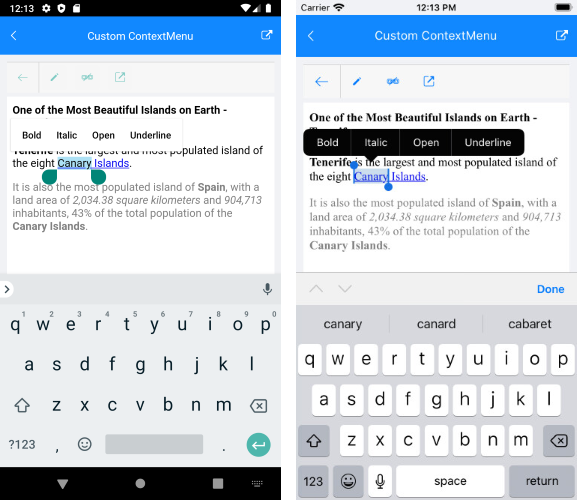
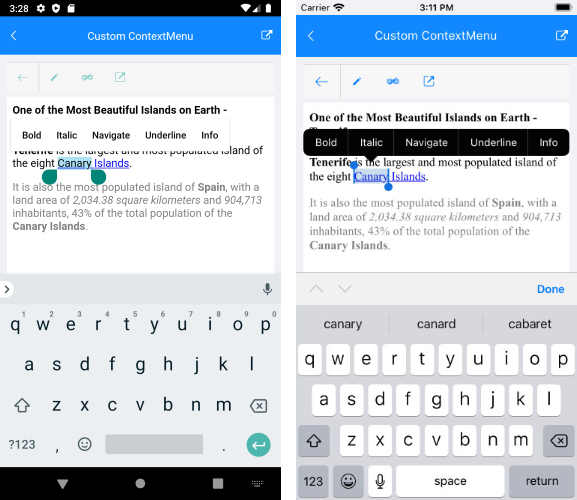
RTE Docs updates

diff --git a/controls/richtexteditor/richtexteditor-context-menu.md b/controls/richtexteditor/richtexteditor-context-menu.md
@@ -8,31 +8,31 @@ slug: richtexteditor-context-menu
 
 # Context Menu
 
-With R1 2021 release RichTextEditor comes with a built-in context menu support which shows common operations such as Copy and Paste for sharing data between the apps or within the app. The context menu is triggered on tap and hold gesture (right-button click on UWP) over the editor content. It is also displayed as soon as the user performs text selection.
+With R1 2021 release RichTextEditor comes with a built-in context menu support which shows common operations such as Copy and Paste for sharing data between the apps or within the app. The context menu is triggered on tap and hold gesture (right-button click on UWP) over the editor content. On Android and iOS it is also displayed as soon as the user performs selection.
 
 The default context menu shows the following options:
 
-* **Cut** - cuts the selected text and saves it in the system clipboard;
-* **Copy** - copies the selected text and saves it in the clipboard;
-* **Paste** - pastes the text from the clipboard into the editor;
-* **Paste as Plain Text** - pastes the text from the clipboard stripping any additional formatting;
-* **Select All** - selects all the current text in the editor;
+* **Cut** - cuts the selected content and saves it in the system clipboard;
+* **Copy** - copies the selected content and saves it in the clipboard;
+* **Paste** - pastes the content from the clipboard into the editor;
+* **Paste as Plain Text** - pastes the content from the clipboard stripping any additional formatting;
+* **Select All** - selects all of the content in the editor;
 
-What options are available in the context menu depends on the current text selection or caret position in the editor.
+What options are available in the context menu depends on the current content selection or caret position in the editor.
 
 Check below a few examples of the RichTextEditor Context Menu.
 
-* in case of text selection, all the default options are available:
+* in case of content selection, all the default options are available:
 
 ![](images/richtexteditor-contextmenu-1.png)
 
-* in case the context menu is shown over the current caret position (through tap and hold gesture on empty space inside the editor), only Paste and SelectAll options are available:
+* in case the context menu is shown over the current caret position (through tap and hold gesture on empty space inside the editor), only **Paste**, **Paste as Plan Text** and **Select All** options are available:
 
 ![](images/richtexteditor-contextmenu-2.png)
 
 ## Custom Context Menu
 
-You can easily modify the RichTextEditor default Context Menu and add or remove some of the provided options. Just need to set <code>AutoGenerateContextMenu</code> property of the RichTextEditor to *False* and manually define the ContextMenuItems. You can choose from the predefined ContextMenuItems or create a CustomContextMenuItem instance and define its **Title** and **Command** (the Command can be bound to any of the RadRichTextEditor's [Commands]({%slug richtexteditor-commands%}) or to a custom command). 
+You can easily modify the RichTextEditor default Context Menu and add or remove some of the provided options. Just need to set <code>AutoGenerateContextMenu</code> property of the RichTextEditor to *False* and manually define the ContextMenuItems. You can choose from the predefined ContextMenuItems or create a <code>CustomContextMenuItem</code> instance and define its **Title** and **Command** (the Command can be bound to any of the RadRichTextEditor's [Commands]({%slug richtexteditor-commands%}) or to a custom command). 
 
 Here is a list of the predefined ContextMenuItems:
 
@@ -45,7 +45,7 @@ Here is a list of the predefined ContextMenuItems:
 * PastePlainTextContextMenuItem
 * SelectAllContextMenuItem
 
-Following is an example how the RichTextEditor Context Menu can be customized by using some of the predefined items as well as adding a <code>CustomContextMenuItem</code> instance:
+Following is an example how the RichTextEditor Context Menu can be customized by using some of the predefined items as well as adding two <code>CustomContextMenuItem</code> instances - the first wired to the RichTextEditor's ToggleUnderlineCommand and the second wired to a custom command imlemented in the ViewModel:
 
 <snippet id='richtexteditor-contextmenu-xaml' />
 
@@ -54,6 +54,14 @@ Add the required namespace:
 ```XAML
 xmlns:telerikRichTextEditor="clr-namespace:Telerik.XamarinForms.RichTextEditor;assembly=Telerik.XamarinForms.RichTextEditor"
 ```
+
+Add the ViewModel class with the CustomInfoCommand:
+
+<snippet id='richtexteditor-contextmenu-vm' />
+
+And set it as a BindingContext of the page:
+
+<snippet id='richtexteditor-contextmenu-setvm' />
 
 Here is the result:
 

diff --git a/controls/richtexteditor/richtexteditor-key-features.md b/controls/richtexteditor/richtexteditor-key-features.md
@@ -68,12 +68,13 @@ In addition, RichTextEditor provides flexible API to apply formatting at the cur
 
 ## Text Selection
 
-RichTextEditor supports text selection functionality - the end user can initiate a selection action through the tap and hold gesture over the text. The selected text is marked with a different background color and two drag handles are available to the user to make it easier to modify the current selection. In addition, as soon as the selection is made, RichTextEditor displays a customizable ContextMenu with a few default commands.
+RichTextEditor supports text selection functionality - the end user can initiate a selection action through the tap and hold gesture over the text. The selected text is marked with a different background color and two drag handles are available to the user to make it easier to modify the current selection. 
 
-You can take advantage of the following methods related to text selection:
+In addition, as soon as the selection is made on Android and iOS, RichTextEditor displays a customizable ContextMenu with a few default commands. For more details on this go to [Context Menu]({%slug richtexteditor-context-menu%}) topic.
 
+You can take advantage of the following API related to text selection:
 
-* GetSelectionAsync() - returns asynchronously a [RichTextSelection](/devtools/xamarin/api/telerik.xamarinforms.richtexteditor.richtextselection) object which defines the current text selection inside the editor (*null* if there is no text selection). The <code>RichTextSelection</code> object contains the *Text* itself as well as the *Start* and *End* position of the text characters;
+* **GetSelectionAsync** method - returns asynchronously a [RichTextSelection](/devtools/xamarin/api/telerik.xamarinforms.richtexteditor.richtextselection) object which defines the current text selection inside the editor (*null* if there is no text selection). The <code>RichTextSelection</code> object contains the *Text* itself as well as the *Start* and *End* position of the text characters;
 
 ## Hyperlink Support
 
@@ -98,28 +99,18 @@ You can override the default behavior by handling the RichTextEditor's **OpenHyp
 	* The <code>Sender</code> which is the RichTextEditor control;
 	* OpenHyperlinkErrorEventArgs provides the following properties:
 		* <code>Error</code> - of type System.Exception, can be used to get the exact error message;
-		* <code>Url</code> - the url of the hyperlink;
+		* <code>Url</code> - of type string, defining the url of the hyperlink;
 		* <code>Handled</code> - boolean property indicating whether the event is handled.
 
 Subscribe to the event, set <code>Handled</code> property of the event args to *True* to prevent the default message and add custom implementation. 
 
 Here is a quick example on the OpenHyperlinkError event usage:
 
-```XAML
-<telerikRichTextEditor:RadRichTextEditor x:Name="richTextEditor" 
-										 OpenHyperlinkError="RichTextEditor_OpenHyperlinkError"
-										 Grid.Row="1" />
-```
+<snippet id='richtexteditor-hyperlinkerrorhandling-xaml' />
 
 And the event handler which shows a custom message:
 
-```C#
-private void RichTextEditor_OpenHyperlinkError(object sender, OpenHyperlinkErrorEventArgs e)
-{
-	e.Handled = true;
-	Application.Current.MainPage.DisplayAlert(string.Format("Error opening {0}", e.Url), e.Error.Message, "Ok");
-}
-```
+<snippet id='richtexteditor-hyperlinkerrorhandling-code' />
 
 Here is the custom message:
 
@@ -151,3 +142,4 @@ The sample Read-Only State demo can be found in our [SDK Browser Application](ht
 
 - [RichTextEditor Toolbar]({%slug richtexteditor-toolbar%})
 - [Commands]({%slug richtexteditor-commands%})
+- [Context Menu]({%slug richtexteditor-context-menu%})

diff --git a/controls/richtexteditor/richtexteditor-commands.md b/controls/richtexteditor/richtexteditor-commands.md
@@ -10,7 +10,7 @@ slug: richtexteditor-commands
 
 RadRichTextEditor provides the following commands of type *ICommand*:
 
-* **RemoveHyperlinkCommand**
+* **UndoCommand**
 * **RedoCommand**
 * **ToggleBoldCommand**
 * **ToggleItalicCommand**
@@ -20,6 +20,7 @@ RadRichTextEditor provides the following commands of type *ICommand*:
 * **ToggleSuperscriptCommand**
 * **ToggleBulletingCommand**
 * **ToggleNumberingCommand**
+* **SelectAllCommand**
 * **ClearFormattingCommand**
 * **AlignLeftCommand**
 * **AlignRightCommand**
@@ -28,7 +29,8 @@ RadRichTextEditor provides the following commands of type *ICommand*:
 * **IndentCommand**
 * **OutdentCommand**
 * **ApplyHyperlinkCommand**
-* **UndoCommand**
+* **RemoveHyperlinkCommand**
+* **OpenHyperlinkCommand**
 
 >note RadRichTextEditor Toolbar exposes some of the commands built-in. For more information please check the [RadRichTextEditor Toolbar]({%slug richtexteditor-toolbar%}) article.
 
